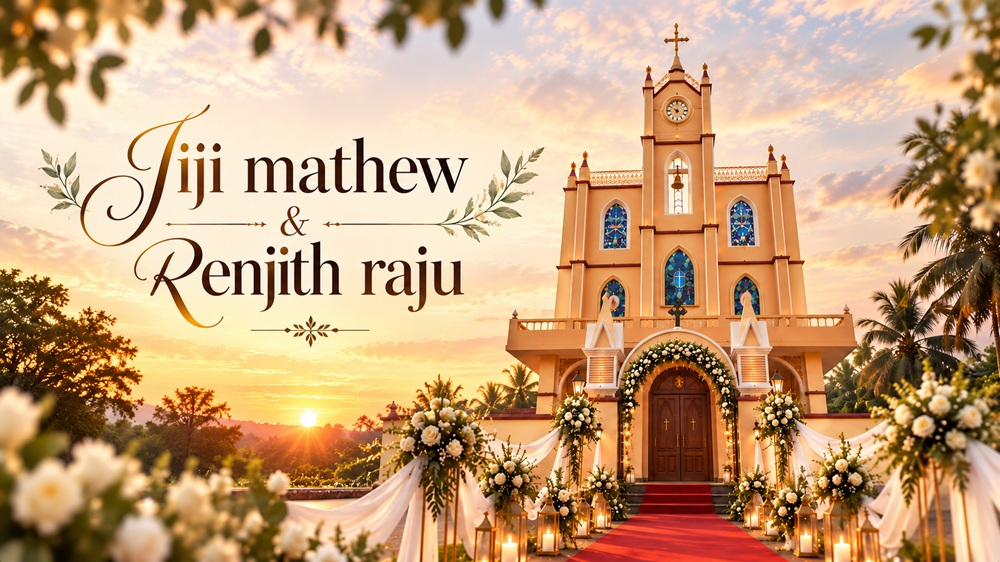
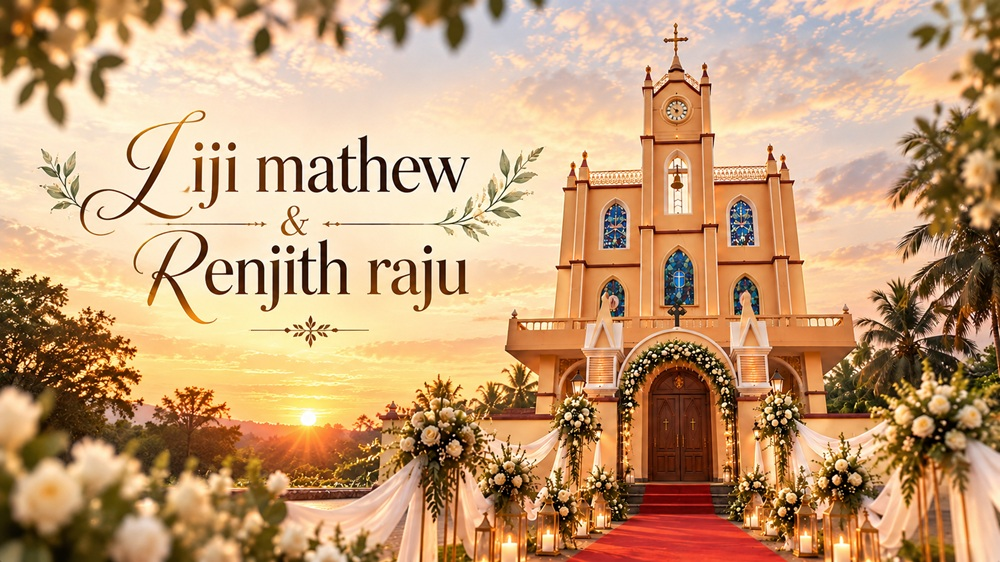
sdfghjkl;

diff --git a/index.html b/index.html
@@ -11,16 +11,16 @@
   <meta name="keywords"
     content="Renjith Raju, Liji Mathew, Marriage, Kadampanad, Kerala Christian Wedding, Salem Mar Thoma Church, Nakshatra Auditorium">
   <meta name="robots" content="index, follow">
-  <link rel="canonical" href="https://jiji-renjith.vercel.app//">
+  <link rel="canonical" href="https://liji-renjith.vercel.app///">
 
   <!-- Open Graph -->
   <meta property="og:type" content="website">
   <meta property="og:site_name" content="Renjith Raju &amp; Liji Mathew">
   <meta property="og:title" content="Renjith Raju &amp; Liji Mathew — Marriage Invitation">
   <meta property="og:description" content="Monday, 30 November 2026 · Salem Mar Thoma Church, Kadampanad">
-  <meta property="og:url" content="https://jiji-renjith.vercel.app//">
-  <meta property="og:image" content="https://jiji-renjith.vercel.app//thu.jpg">
-  <meta property="og:image:secure_url" content="https://jiji-renjith.vercel.app//thu.jpg">
+  <meta property="og:url" content="https://liji-renjith.vercel.app///">
+  <meta property="og:image" content="https://liji-renjith.vercel.app///thu.jpg">
+  <meta property="og:image:secure_url" content="https://liji-renjith.vercel.app///thu.jpg">
   <meta property="og:image:type" content="image/jpeg">
   <meta property="og:image:width" content="1200">
   <meta property="og:image:height" content="630">
@@ -30,9 +30,9 @@
   <meta name="twitter:card" content="summary_large_image">
   <meta name="twitter:title" content="Renjith Raju &amp; Liji Mathew — Marriage Invitation">
   <meta name="twitter:description" content="Monday, 30 November 2026 · Salem Mar Thoma Church, Kadampanad">
-  <meta name="twitter:image" content="https://jiji-renjith.vercel.app//thu.jpg">
-  <link rel="image_src" href="https://jiji-renjith.vercel.app//thu.jpg">
-  <link rel="apple-touch-icon" href="https://jiji-renjith.vercel.app//thu.jpg">
+  <meta name="twitter:image" content="https://liji-renjith.vercel.app///thu.jpg">
+  <link rel="image_src" href="https://liji-renjith.vercel.app///thu.jpg">
+  <link rel="apple-touch-icon" href="https://liji-renjith.vercel.app///thu.jpg">
 
   <!-- JSON-LD Event Schema -->
   <script type="application/ld+json">
@@ -41,8 +41,8 @@
   "@type": "Event",
   "name": "Marriage of Renjith Raju and Liji Mathew",
   "description": "He has made everything beautiful in its time. Ecclesiastes 3:11",
-  "url": "https://jiji-renjith.vercel.app//",
-  "image": "https://jiji-renjith.vercel.app//thu.jpg",
+  "url": "https://liji-renjith.vercel.app///",
+  "image": "https://liji-renjith.vercel.app///thu.jpg",
   "startDate": "2026-11-30T10:30:00+05:30",
   "endDate": "2026-11-30T15:00:00+05:30",
   "eventStatus": "https://schema.org/EventScheduled",
